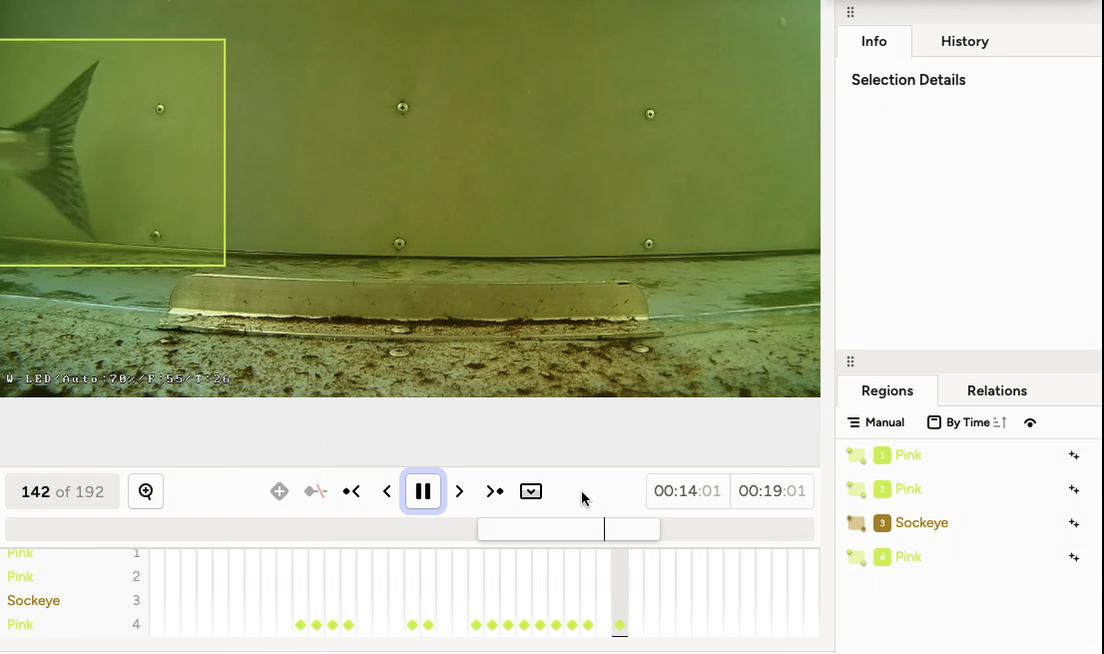
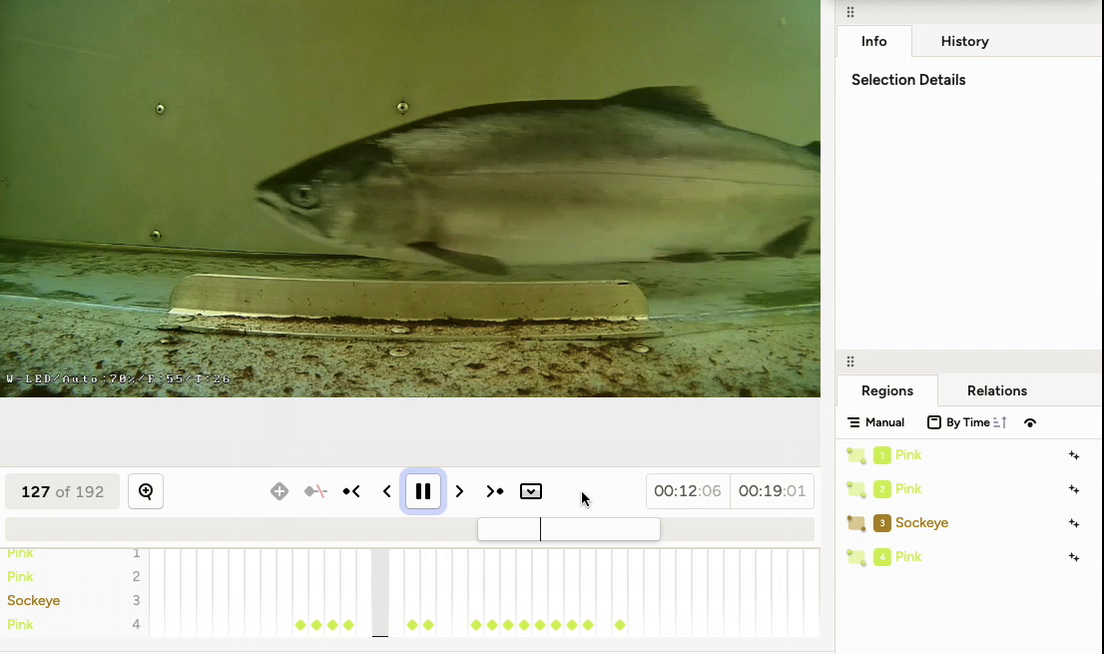
fix(salmonvision): use a whole-fish frame for the review carousel slide
The previous frame caught the fish mid-exit (only a fin in view). Replace
with a centered frame showing the full salmon, and adjust the caption.

diff --git a/content/tools/salmonvision/index.md b/content/tools/salmonvision/index.md
@@ -48,7 +48,7 @@ Built with the Pacific Salmon Foundation, the Wild Salmon Center, Lumax AI, and 
 </section>
 
 {{< image_carousel id="salmonvision-gallery" items="2" >}}
-  {{< carousel_image src="/images/tools/salmonvision/review-interface.png" alt="Reviewing salmon detections in the SalmonVision web app" caption="Review interface: the model boxes each fish, classifies the species (Pink, Sockeye…), and tallies counts along a timeline for a reviewer to confirm." >}}
+  {{< carousel_image src="/images/tools/salmonvision/review-interface.png" alt="A salmon under review in the SalmonVision web app" caption="Review interface: each fish is tracked and classified by species (Pink, Sockeye…), with counts tallied along a timeline for a reviewer to confirm." >}}
   {{< carousel_image src="/images/projects/wild_salmon_migration_monitoring/sonar/haida-sonar.jpg" alt="Sonar setup at the Haida site" caption="Sonar in the field: an acoustic counter deployed at the Haida site for low-visibility water." >}}
   {{< carousel_image src="/images/projects/wild_salmon_migration_monitoring/drone/drone_imagery.webp" alt="Drone photogrammetry of a salmon stream" caption="Drone photogrammetry of a freshwater stream where salmon migrate — courtesy of Lumax AI." >}}
 {{< /image_carousel >}}